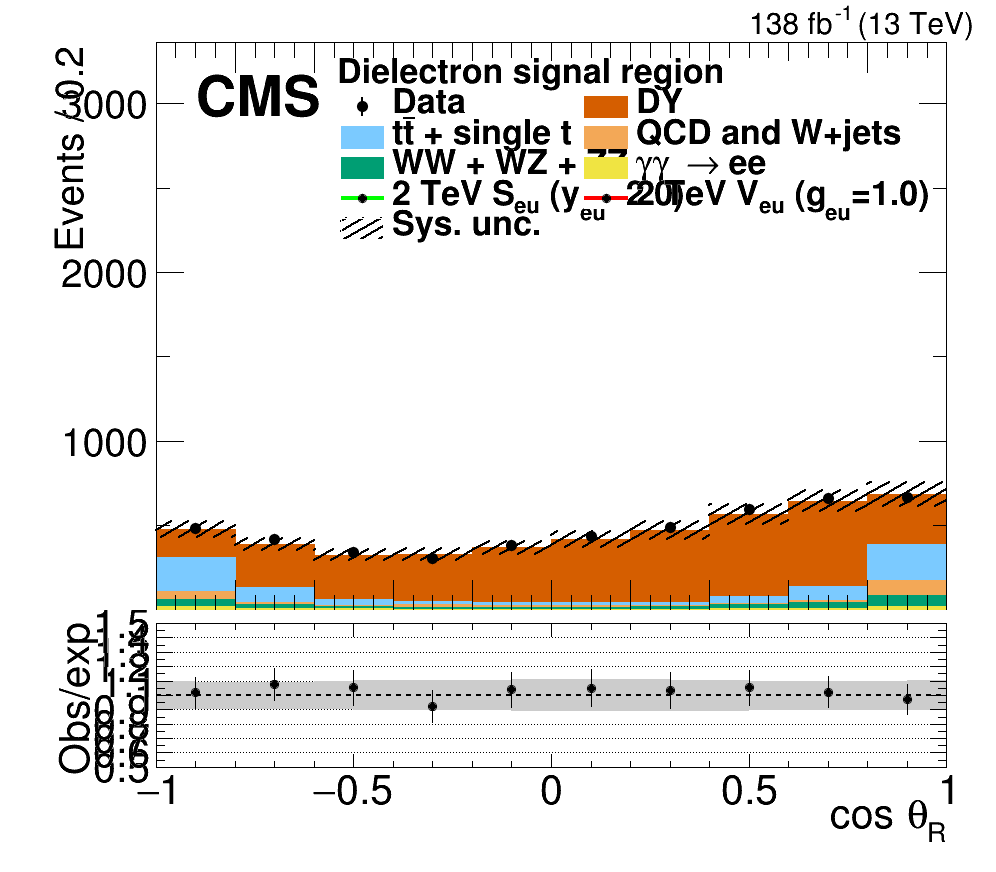
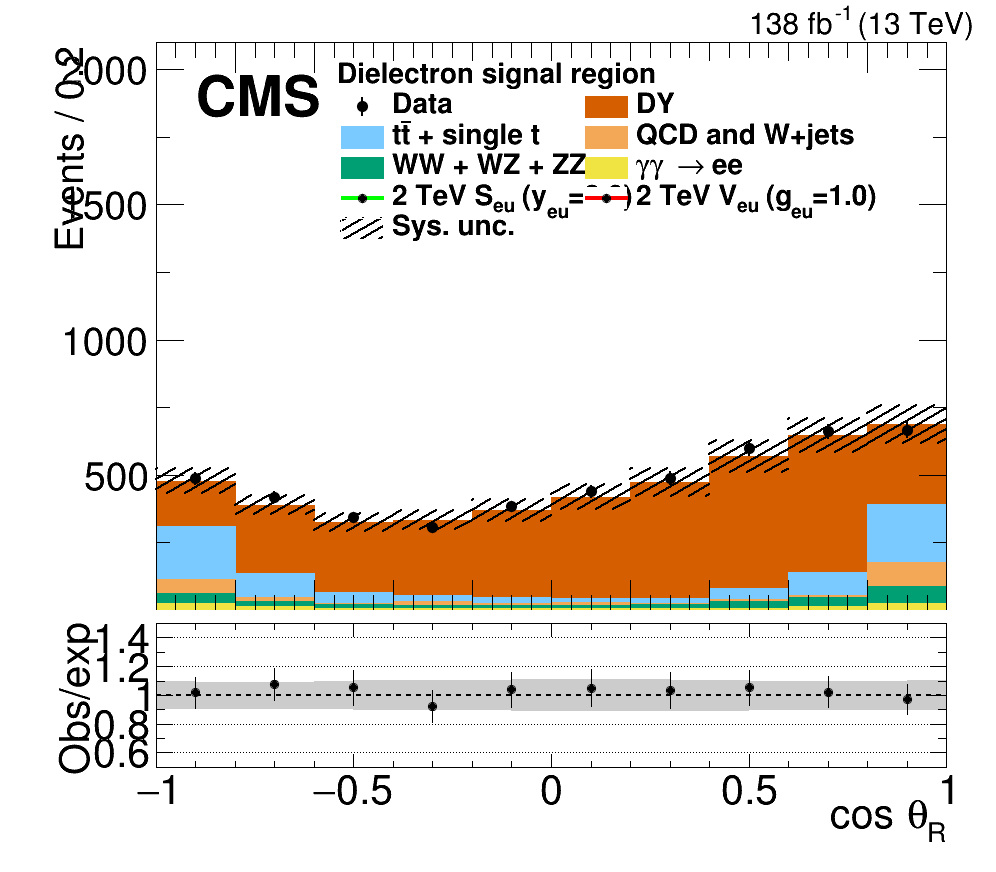
removing LQ from stack

diff --git a/plots/ElEl/draw_cmp_from_saved.C b/plots/ElEl/draw_cmp_from_saved.C
@@ -363,7 +363,7 @@ void draw_cmp_from_saved(){
     leg1->AddEntry(gg_m, "#gamma#gamma #rightarrow ee", "f");
     leg1->AddEntry(LQu_m, "2 TeV S_{eu} (y_{eu}=2.0)");
     leg1->AddEntry(LQu_vec_m, "2 TeV V_{eu} (g_{eu}=1.0)");
-    leg1->SetTextSize(0.06);
+    leg1->SetTextSize(0.05);
 
 
     leg2->AddEntry(dy_m, "DY ", "f");
@@ -374,7 +374,7 @@ void draw_cmp_from_saved(){
     leg2->AddEntry(gg_m, "#gamma#gamma #rightarrow ee", "f");
     leg2->AddEntry(LQu_m, "2 TeV S_{eu} (y_{eu}=2.0)");
     leg2->AddEntry(LQu_vec_m, "2 TeV V_{eu} (g_{eu}=1.0)");
-    leg2->SetTextSize(0.06);
+    leg2->SetTextSize(0.05);
 
 
     leg3->AddEntry(dy_m, "DY ", "f");
@@ -385,7 +385,7 @@ void draw_cmp_from_saved(){
     leg3->AddEntry(gg_m, "#gamma#gamma #rightarrow ee", "f");
     leg3->AddEntry(LQu_m, "2 TeV S_{eu} (y_{eu}=2.0)");
     leg3->AddEntry(LQu_vec_m, "2 TeV V_{eu} (g_{eu}=1.0)");
-    leg3->SetTextSize(0.06);
+    leg3->SetTextSize(0.05);
 
     leg1->SetX1NDC(0.7);
     leg1->SetX2NDC(0.7);
@@ -418,7 +418,7 @@ void draw_cmp_from_saved(){
 
 
     int year = -1;
-    float hmax = 1000;
+    float hmax = 7000;
     //if(year == 2016)
     //    hmax *= 0.625;
     //if(year == 2017)
@@ -451,7 +451,7 @@ void draw_cmp_from_saved(){
     logy = false;
     int n_cost_bins = 10;
     float cost_bin_size = 2./n_cost_bins;
-    hmax = 3200;
+    hmax = 2000;
 
     //if(year == 2016)
     //    hmax *= 0.625;
